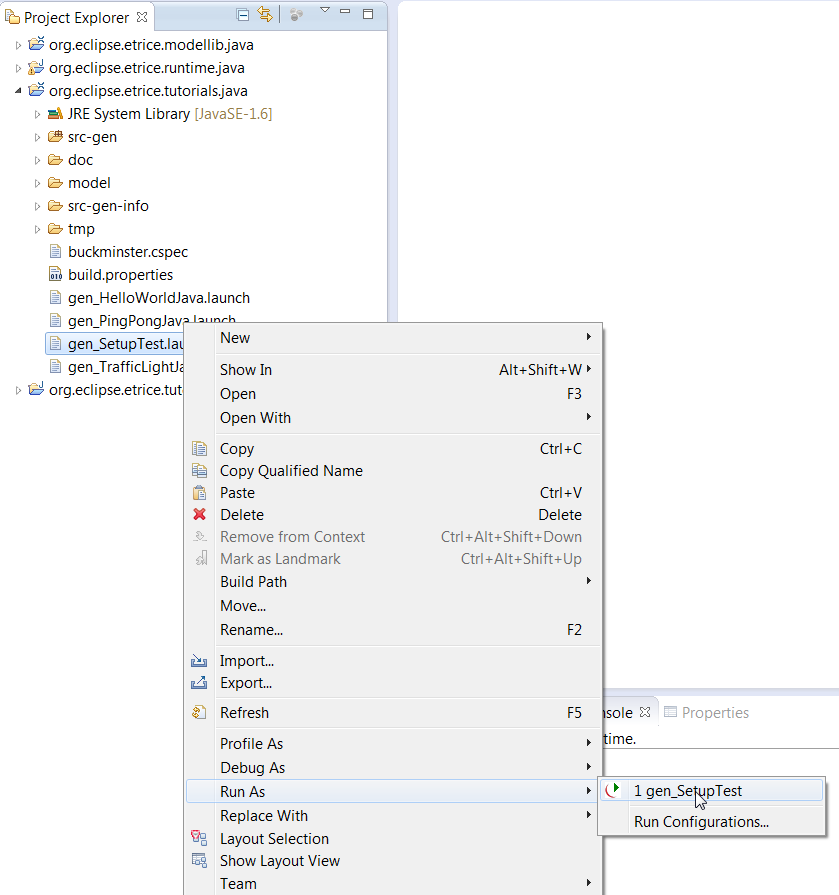
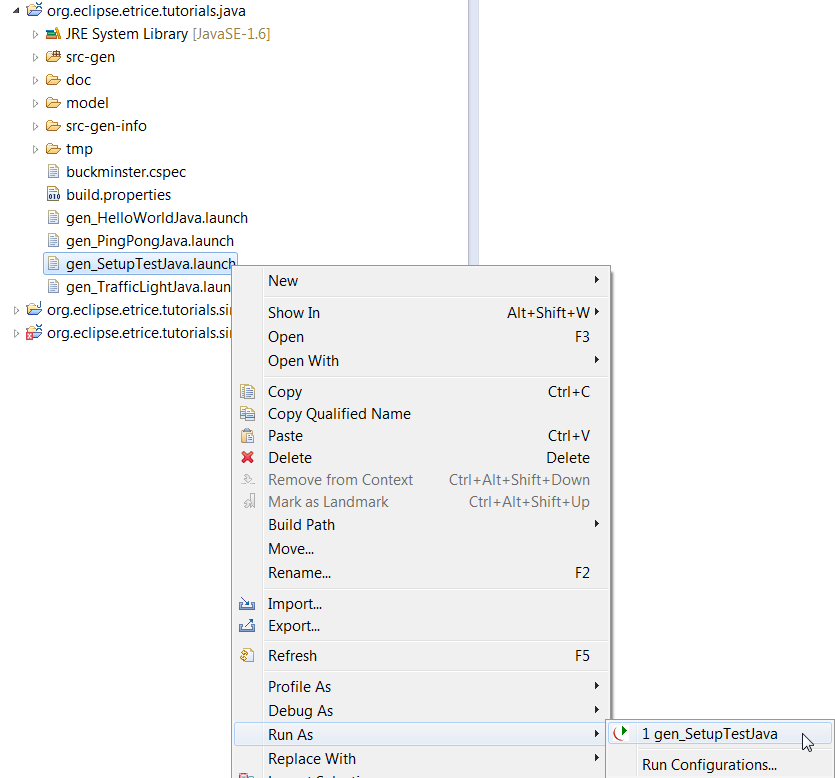
[doc] setting up workspace for C and Java for review

diff --git a/plugins/org.eclipse.etrice.doc/doc/013-setting-up-the-workspace-for-java.tex b/plugins/org.eclipse.etrice.doc/doc/013-setting-up-the-workspace-for-java.tex
@@ -44,7 +44,7 @@ To check the correct setup of your workspace we run a little testproject contain
 
 The tutorial models are available in the \textit{org.eclipse.etrice.tutorials.java} project. All tutorials are 
 ready to generate and run without any changes. To test the code generator and the workspace setup simply run 
-\emph{gen\_SetupTest.launch} as \emph{gen\_SetupTest}: 
+\emph{gen\_SetupTestJava.launch} as \emph{gen\_SetupTestJava}: 
 
 \includegraphics[width=0.6\textwidth]{images/013-SetupWorkspace05.png}
 % !images/013-SetupWorkspace05.png!

diff --git a/plugins/org.eclipse.etrice.doc/doc/014-setting-up-the-workspace-for-C.tex b/plugins/org.eclipse.etrice.doc/doc/014-setting-up-the-workspace-for-C.tex
@@ -81,8 +81,8 @@ To stop the application type \emph{quit} in the console window. If your Console 
 \newline your setup should be ok.
 
 %TODO : update screenshot
-\includegraphics[width=0.6\textwidth]{images/013-SetupWorkspace07.png} 
-% !images/013-SetupWorkspace07.png!
+\includegraphics[width=0.6\textwidth]{images/014-09-ConsoleWithSetupOk.png} 
+% !images/014-09-ConsoleWithSetupOk.png!
 
 Now the workspace is set up and you can perform the tutorials or start with your work.
 
